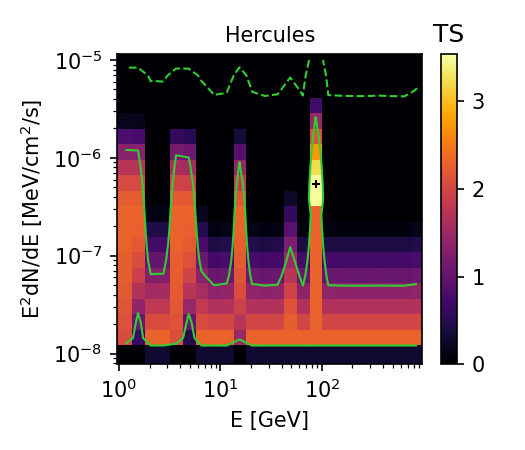
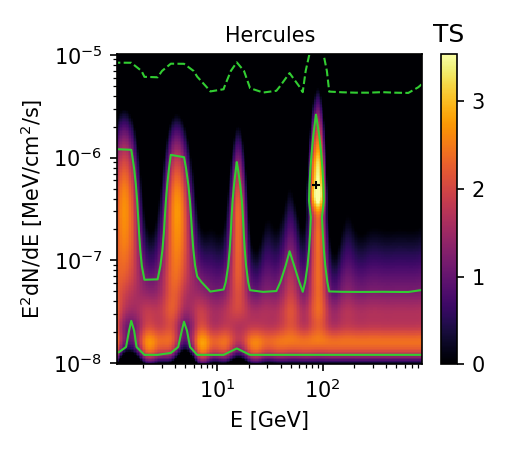
smooth TS plot gradients; add TS plots for stack of 3 best EGs and 3 example dSphs

diff --git a/run/tsmap.py b/run/tsmap.py
@@ -75,25 +75,44 @@ def plotTS(summed, masses, sigmav, vmin=0, interp=True,dof=2,
 ############################################################################################################
 def main(cmd_line):
 
-	srcname = sys.argv[1]
-	sedfits =  f"{homepath}{srcname}/output/{srcname}_free_BG_sed.fits"
-	save_array_path = f"{homepath}{srcname}/output/plots/"
-	sed = fits.open(sedfits)[1].data
-	like_file = copy.deepcopy(sed['dloglike_scan'])
+	srcIn = sys.argv[1]
 	
-	en_vec = copy.deepcopy(sed['e_ref'])/1.e3
-	flux_vec = np.logspace(-8,-5,20)
-	
-	#correct 0 point
-	TS_array = 2*(like_file-like_file[0,0])
-	
-	plotTS(TS_array.T, en_vec, flux_vec, interp=False, vmin=0, save=savePlots, filename=homepath+srcname+"/output/plots/TS_enFlux.png", title=srcname)
+	if '.txt' in srcIn:
+		srclist = open(srcIn,'r').read().split('\n')
+		#protect against empty lines
+		if '' in srclist:
+			srclist.remove('')
+	else:
+		srclist=[srcIn]
+	typeStr = "dSph" if 'Draco' in srclist else "EG"
 
+	stackTS = 0
+	
+	for srcname in srclist:
+		sedfits =  f"{homepath}{srcname}/output/{srcname}_free_BG_sed.fits"
+		save_array_path = f"{homepath}{srcname}/output/plots/"
+		sed = fits.open(sedfits)[1].data
+		like_file = copy.deepcopy(sed['dloglike_scan'])
+	
+		en_vec = copy.deepcopy(sed['e_ref'])/1.e3
+		flux_vec = np.logspace(-8,-5,20)
+	
+		#correct 0 point
+		TS_array = 2*(like_file-like_file[0,0])
+		stackTS += TS_array
+	
+		plotTS(TS_array.T, en_vec, flux_vec, interp=True, vmin=0, save=savePlots, filename=homepath+srcname+"/output/plots/TS_enFlux.png", title=srcname)
+
+	#plot stack if more than one input
+	if len(srclist)>1:
+		plotTS(stackTS.T, en_vec, flux_vec, interp=True, vmin=0, save=savePlots, filename=homepath+"/stack/TS_enFlux_"+typeStr+".png", title=f"{typeStr} stacked")
 
 ################################################################################################
 ################################################################################################
 ################################################################################################
 if __name__=="__main__":
 	homepath = '/Users/asteinhe/FermiLAT/BHinEGs_DM/run/'
-	savePlots=False
+	savePlots=True
 	main(sys.argv)
+	
+	#run with either name of a target to consider or with the path to a txt file listing all targets to consider

diff --git a/run/plot_TSmaps_stack.py b/run/plot_TSmaps_stack.py
@@ -115,14 +115,24 @@ def main(cmd_line):
 		# Need to talk with Mattia to see if he understands it
 		TS_array = 2*(like_file-like_file[0,0])
 		TS_array_J = 2*(like_file_prior-like_file_prior[0,0])
+		
+		#Identify lowest value and correct by that, not by the corner entry
+		#TS_array = 2*(like_file-like_file.min())
+		#TS_array_J = 2*(like_file_prior-like_file_prior.min())
 		# the above lines convert the delta log likelihood to TS
+		
+		#TS_array = 2*like_file
+		#TS_array_J = 2*like_file_prior
+		
+		print(like_file[0,0])
+		print(TS_array.min())
 	
 		summed_noprior+= TS_array	
 		summed_wprior+= TS_array_J
 		
 		#save TS plots for individual inputs
-		plotTS(TS_array.T, mass_vec, sigmav_vec, vmin=-3, save=savePlots, filename=homepath+srcname+"/output/plots/TS_noprior_"+typeStr+".png", title=srcname+"_noprior")
-		plotTS(TS_array_J.T, mass_vec, sigmav_vec, vmin=-3, save=savePlots, filename=homepath+srcname+"/output/plots/TS_Jprior_"+typeStr+".png", title=srcname+"_Jprior")
+		plotTS(TS_array.T, mass_vec, sigmav_vec, vmin=-50, save=savePlots, filename=homepath+srcname+"/output/plots/TS_noprior_"+typeStr+".png", title=srcname+"_noprior")
+		plotTS(TS_array_J.T, mass_vec, sigmav_vec, vmin=-50, save=savePlots, filename=homepath+srcname+"/output/plots/TS_Jprior_"+typeStr+".png", title=srcname+"_Jprior")
 
 		
 		"""
@@ -228,7 +238,7 @@ if __name__=="__main__":
 
 	homepath = '/Users/asteinhe/FermiLAT/BHinEGs_DM/run/'
 	
-	savePlots = True
+	savePlots = False
 	
 	main(sys.argv)
 
